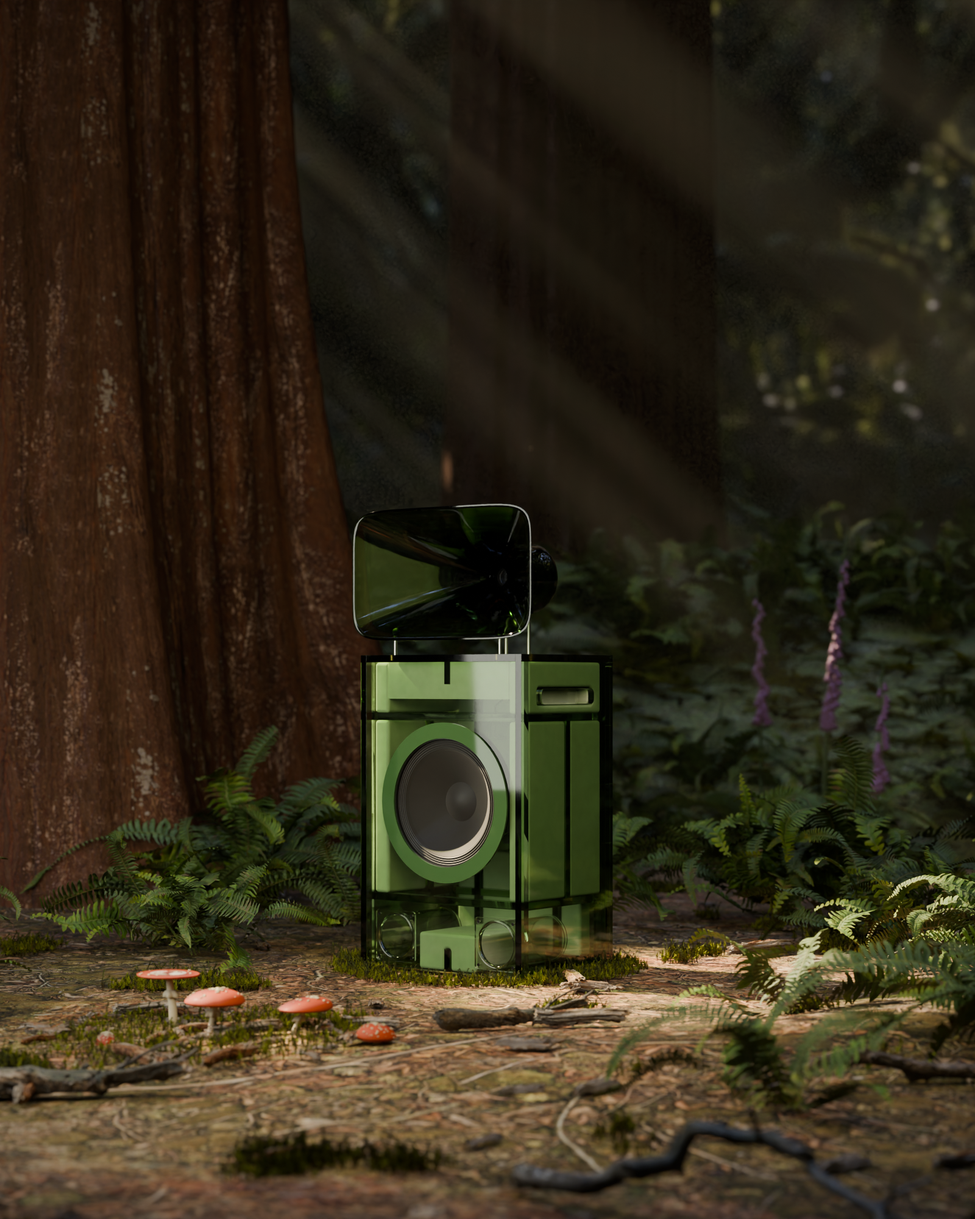
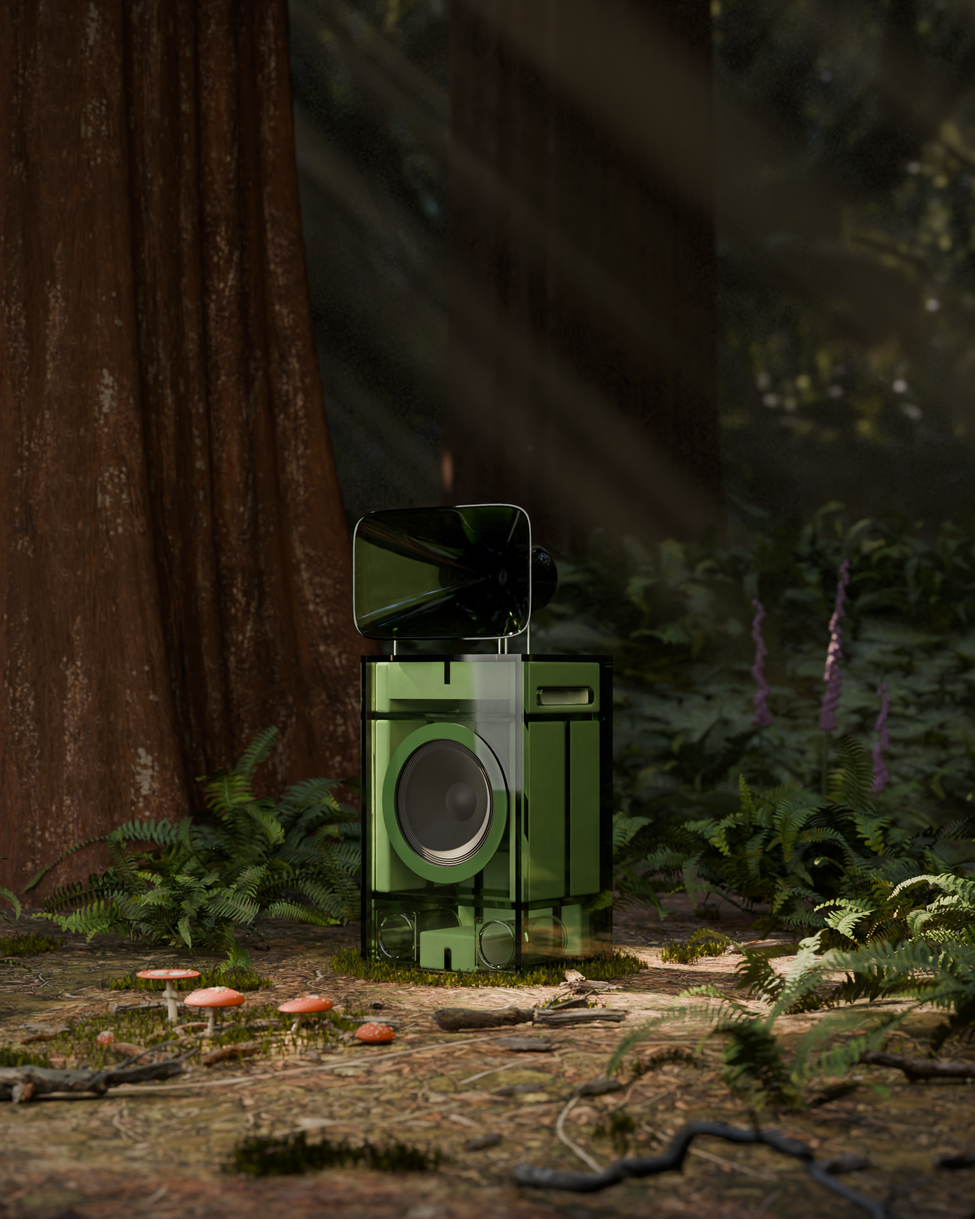
barkhorn element: Poison A4's finals with the corner streak compressed (post only, caps as rendered): ahead of A4 on both frames, +0.25 landscape, +0.3 phone, 4/4
Claude-Session: https://claude.ai/code/session_01PvT9uxpJyv4PLQTpK6gmcp

Changed region(s): [[0.4688, 0.527, 0.5625, 0.651], [0.4688, 0.651, 0.5, 0.682]]

diff --git a/spinoffs/barkhorn/elements/poison_a4.md b/spinoffs/barkhorn/elements/poison_a4.md
@@ -98,3 +98,14 @@ The two halves pull apart:
 - **The cap shift:** three of those four preferred A4's warmer orange-red. The retouched caps read pink, "candy" or "more synthetic".
 
 **The full retouch does not clearly beat A4 on both frames, so A4 stays as it is.** The streak half alone is the likely win, but it is untested.
+
+## The streak half alone (2026-10-19, `retouch_a4.py --streak-only`; applied)
+
+The caps are left as rendered. Only the corner streak is compressed (in the landscape the band is x 1140–1308; in the phone frame, x 760–878). The coordinator's rule for a non-owner improvement: it goes up only if it comes out ahead on both frames.
+
+| Frame | Streak first | A4 first | Average | Preferred |
+|---|---|---|---|---|
+| Landscape | 6.6 / 6.3 | 6.6 / 6.4 | **+0.25** | the streak fix, 2 of 2 |
+| Phone | 6.6 / 6.4 | 6.8 / 6.4 | **+0.3** | the streak fix, 2 of 2 |
+
+All four judges named the same change: the milky wash on the clear corner is gone, the surround's edge and the green read through, and the panel reads as clear acrylic rather than haze. **Applied over `poison_a4.png` and `poison_a4-portrait.png`.**
